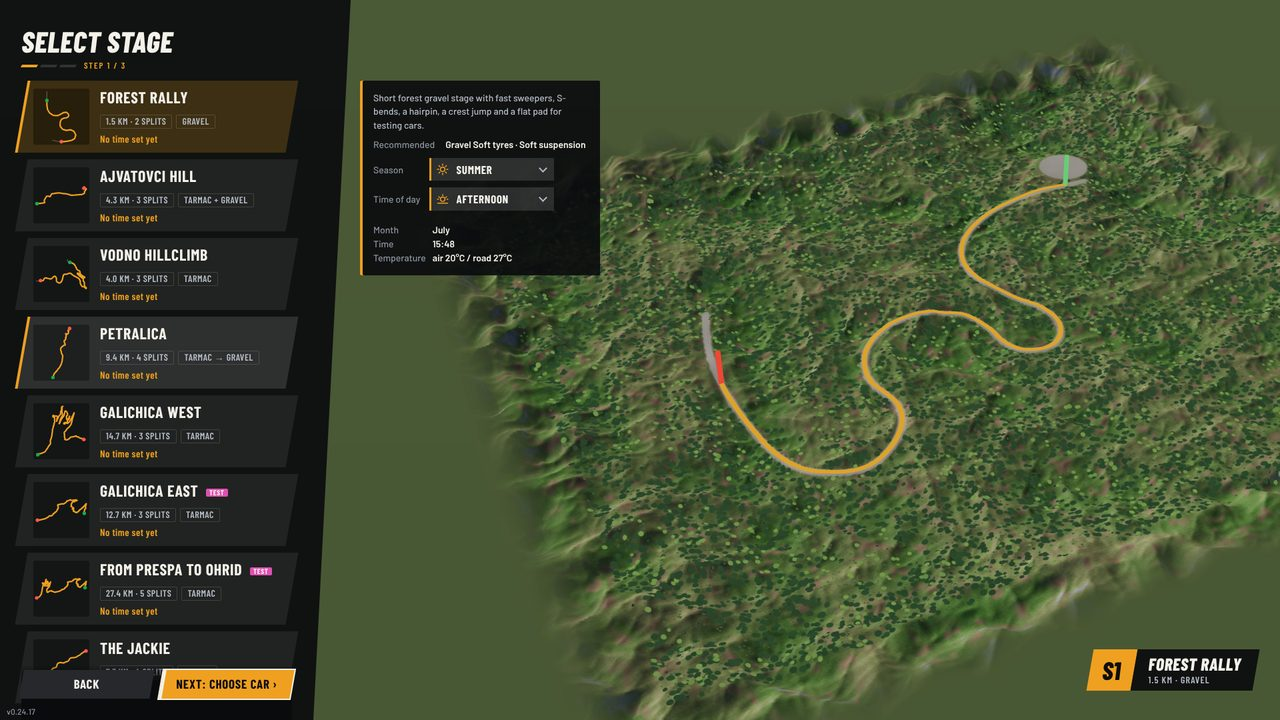
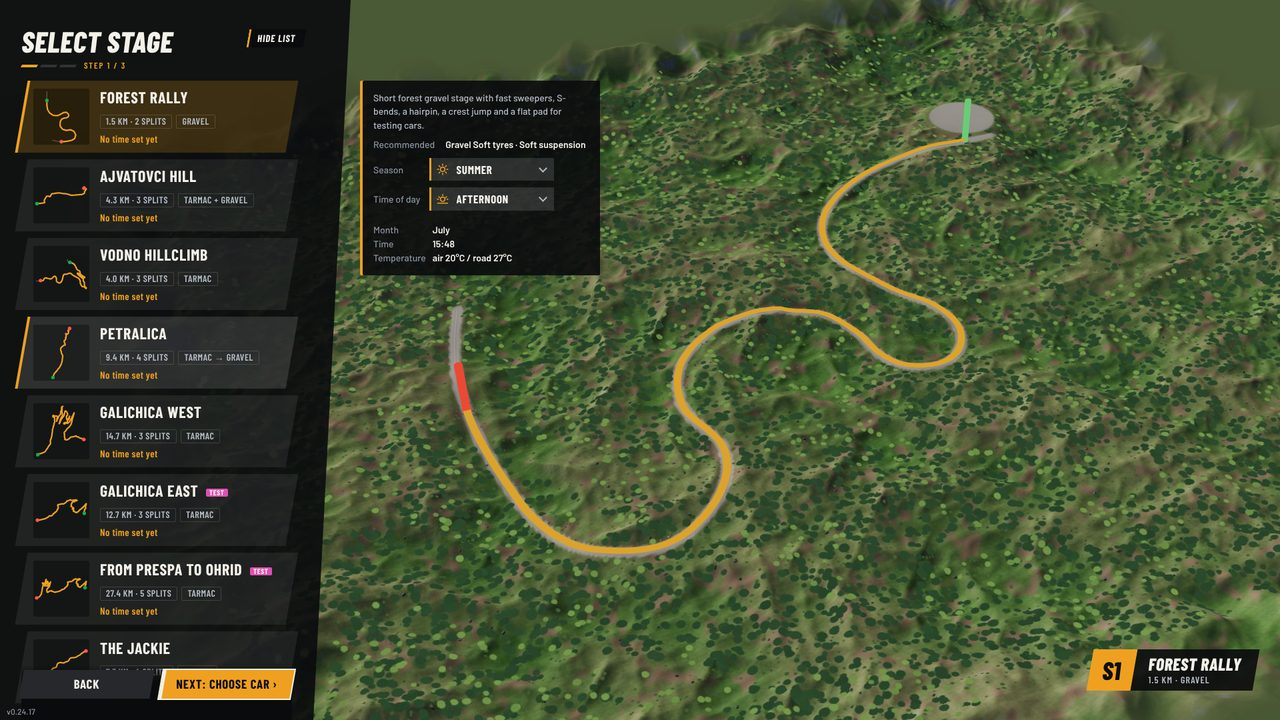
Rally menu: keep map and car full size, add Hide list
- map / car no longer move or shrink for the card
- Hide list on Select stage / Select car slides the list away
- style guide, details, guide pictures updated

diff --git a/src/games/rally/game/showroom.ts b/src/games/rally/game/showroom.ts
@@ -59,14 +59,6 @@ import {
 const CAR_SHIFT = 0.07;
 /** Orbit distance of the turntable car on every car screen: leaves room for the spec card docked on the right. */
 const CAR_DIST_SCALE = 1.05;
-/** Detail card docked beside the list: the subject moves into the room right of it, if that is at least this share of the width. */
-const DOCK_MIN_FREE = 0.25;
-/** Same for the stage view: the whole route has to fit there, so it needs more room before it leaves the middle. */
-const DOCK_MIN_FREE_MAP = 0.4;
-/** Gap between the docked card and the subject's room (px). */
-const DOCK_GAP = 16;
-/** Largest extra back-off of the turntable car so it fits in the room right of the docked card. */
-const DOCK_MAX_BACKOFF = 2.2;
 const CAR_ENV = { ...testMap.environment, fogDensity: 0.02, sunElevation: 24 };
 /** Map view: camera height angle over the stage (rad), ~36 deg. */
 const ORBIT_ELEVATION = Math.atan2(0.7, 0.95);
@@ -170,8 +162,6 @@ export class Showroom {
    * centred in the screen area right of the menu panel (`panelRight`, the stage view).
    */
   private fixedShift: number | null = CAR_SHIFT;
-  /** Eased screen shift of the car screens (`CAR_SHIFT`, or the room beside the docked card). */
-  private carShift = CAR_SHIFT;
   private env: Environment;
   /** Car screens: shallow depth of field on the turntable car (off on low quality). */
   private dof?: DepthOfField;
@@ -211,8 +201,6 @@ export class Showroom {
     private quality: QualitySettings,
     /** Right edge of the menu panel (CSS px from the canvas' left edge); 0 = no panel. */
     private panelRight: () => number = () => 0,
-    /** Right edge of the detail card docked beside the list (CSS px from the canvas' left edge); 0 = none. */
-    private cardRight: () => number = () => 0,
   ) {
     this.renderer = createRenderer(container, quality);
     this.loadCue = document.createElement('div');
@@ -513,17 +501,9 @@ export class Showroom {
     }
     const cw = this.renderer.domElement.clientWidth;
     this.loadCue.style.left = `${(0.5 + (w > h ? this.shift() : 0)) * cw}px`;
-    // Ease the car beside the docked detail card (and back), backing off so it still fits there.
-    const dock = this.dockEdge();
-    const want = dock ? dock / (2 * (cw || 1)) : CAR_SHIFT;
-    this.carShift += (want - this.carShift) * Math.min(1, dt * 8);
-    const back = Math.min(
-      DOCK_MAX_BACKOFF,
-      Math.max(1, (0.85 * (1 - 2 * CAR_SHIFT)) / (1 - 2 * this.carShift)),
-    );
     this.angle += dt * 0.18;
     // Back off on narrow windows so the car still fits beside the panel.
-    const dist = 8.2 * Math.max(1, 1.7 / (w / h)) * CAR_DIST_SCALE * back;
+    const dist = 8.2 * Math.max(1, 1.7 / (w / h)) * CAR_DIST_SCALE;
     const cam = this.camera;
     cam.position.set(
       Math.sin(this.angle) * dist,
@@ -548,25 +528,10 @@ export class Showroom {
    * the screen): none.
    */
   private shift(): number {
-    if (this.fixedShift !== null) return this.carShift;
+    if (this.fixedShift !== null) return this.fixedShift;
     const width = this.renderer.domElement.clientWidth || 1;
-    const dock = this.dockEdge();
-    if (dock) return dock / (2 * width);
     const panel = this.panelRight();
     return panel > width * 0.6 ? 0 : panel / (2 * width);
-  }
-
-  /**
-   * Right edge (plus a small gap) of the detail card docked beside the list, or 0 when there is none or too little room
-   * right of it: the subject then stays where it is and the card floats over it.
-   */
-  private dockEdge(): number {
-    const width = this.renderer.domElement.clientWidth || 1;
-    const card = this.cardRight();
-    const min = this.mapView ? DOCK_MIN_FREE_MAP : DOCK_MIN_FREE;
-    return card > 0 && width - card - DOCK_GAP >= width * min
-      ? card + DOCK_GAP
-      : 0;
   }
 
   private aim(cam: PerspectiveCamera, v: MapView, aspect: number): void {

diff --git a/src/games/rally/game/menu.ts b/src/games/rally/game/menu.ts
@@ -317,6 +317,8 @@ class MainMenu {
   private carIndex: number;
   /** Drivetrain filter on the car screen (not remembered: the menu opens on All). */
   private driveFilter: DriveFilter = 'all';
+  /** Select stage / Select car: the list is folded away, leaving the description card (`.menu-fold`). */
+  private folded = false;
   private livery: number;
   /** Setup screen choices for one map + car (anything else resets to the stage recommendation, nothing is saved). */
   private pick: {
@@ -368,18 +370,8 @@ class MainMenu {
     this.showroom = new Showroom(
       bg,
       quality,
-      () =>
-        this.panel.getBoundingClientRect().right -
-        bg.getBoundingClientRect().left,
-      // The detail card docked beside the list (not the phone layout, where it covers the subject above the buttons).
-      () => {
-        const card = this.root.querySelector<HTMLElement>(
-          '.menu-side-card, .menu-times-card',
-        );
-        return card && window.innerWidth >= SIDE_CARD_MIN_WIDTH
-          ? card.getBoundingClientRect().right - bg.getBoundingClientRect().left
-          : 0;
-      },
+      // Layout width (not the bounding box): the folded panel slides away without moving the subject.
+      () => this.panel.offsetLeft + this.panel.offsetWidth,
     );
     this.showroom.setCar(this.car.id, this.livery, this.badge);
     window.addEventListener('keydown', this.onKey);
@@ -499,9 +491,13 @@ class MainMenu {
     this.panel.replaceChildren();
     this.root
       .querySelectorAll(
-        '.menu-times-card, .menu-side-card, .menu-plate, .setup-part',
+        '.menu-times-card, .menu-side-card, .menu-plate, .setup-part, .menu-fold',
       )
       .forEach((el) => el.remove());
+    // The list folds away on the two screens with a description card (wide screens).
+    const foldable = screen === 'map' || screen === 'car';
+    this.root.classList.toggle('folded', foldable && this.folded);
+    if (foldable) this.root.append(this.foldButton());
     if (screen === 'welcome') this.welcome();
     // The stage plate (S number, name, length, surface) once a stage is being picked (not on the welcome screen).
     if (screen === 'map' || screen === 'car' || screen === 'setup')
@@ -895,6 +891,29 @@ class MainMenu {
     const reserve = window.innerHeight < SHORT_SCREEN_HEIGHT ? 24 : 120;
     card.style.maxHeight = `calc(100% - ${top + reserve}px)`;
     return true;
+  }
+
+  /** Button that folds the list away (and back) on Select stage / Select car, so the description card and the view stand alone. */
+  private foldButton(): HTMLElement {
+    const b = document.createElement('button');
+    b.className = 'menu-fold';
+    const sync = () => {
+      b.textContent = this.folded ? 'Show list' : 'Hide list';
+      b.setAttribute('aria-expanded', String(!this.folded));
+    };
+    sync();
+    b.addEventListener('click', () => {
+      this.folded = !this.folded;
+      this.root.classList.toggle('folded', this.folded);
+      sync();
+      // Keep the keyboard / pad on the list: the folded one is out of reach, so focus the toggle itself.
+      if (this.folded) b.focus({ preventScroll: true });
+      else
+        this.panel
+          .querySelector<HTMLElement>('[data-primary]')
+          ?.focus({ preventScroll: true });
+    });
+    return b;
   }
 
   /** Top of `el` inside the menu as if the panel were not scrolled (it keeps its scroll while the screen is rebuilt). */

diff --git a/src/games/rally/game/menu.css b/src/games/rally/game/menu.css
@@ -967,6 +967,75 @@ html.touch .menu-btn.big kbd {
     max-height: 40%;
   }
 }
+/* Hide list: on Select stage / Select car the list slides away so the description card and the view stand alone. */
+.menu-slab,
+.menu-panel {
+  transition: transform 0.25s ease;
+}
+.menu-side-card {
+  transition: left 0.25s ease;
+}
+.menu-root.folded .menu-slab,
+.menu-root.folded .menu-panel {
+  transform: translateX(-102%);
+  visibility: hidden;
+  transition:
+    transform 0.25s ease,
+    visibility 0s 0.25s;
+}
+.menu-root.folded .menu-side-card {
+  left: 28px;
+}
+.menu-fold {
+  position: absolute;
+  z-index: 42;
+  top: 44px;
+  left: 372px;
+  padding: 6px 14px;
+  border: 0;
+  border-radius: var(--ui-radius);
+  background: transparent;
+  color: var(--ui-text);
+  font: italic 700 15px/1 var(--ui-font-display);
+  letter-spacing: 0.06em;
+  text-transform: uppercase;
+  cursor: pointer;
+  transition: left 0.25s ease;
+}
+.menu-fold::before {
+  content: '';
+  position: absolute;
+  inset: 0;
+  z-index: -1;
+  background: var(--ui-glass);
+  box-shadow: inset 3px 0 0 var(--ui-accent);
+  transform: skewX(var(--ui-slant));
+}
+.menu-fold:hover::before {
+  background: var(--ui-raised-solid);
+}
+.menu-fold:focus-visible {
+  outline: 2px solid var(--ui-accent);
+  outline-offset: 2px;
+}
+.menu-root.folded .menu-fold {
+  left: 28px;
+  top: 28px;
+}
+@media (max-width: 799px) {
+  /* Phones: the list stays, the card sits over the view above the buttons. */
+  .menu-fold {
+    display: none;
+  }
+  .menu-root.folded .menu-slab,
+  .menu-root.folded .menu-panel {
+    transform: none;
+    visibility: visible;
+  }
+  .menu-root.folded .menu-side-card {
+    left: 16px;
+  }
+}
 /* Select stage: Season and Time of day dropdowns left, month / time / temperature right (wraps below on narrow cards). */
 .menu-when {
   display: flex;

diff --git a/src/games/rally/DETAILS.md b/src/games/rally/DETAILS.md
@@ -560,7 +560,7 @@ run 2-3x, so compare old / new **in the same page, interleaved** over several ro
   sits unlabelled at 0%. The car's GLB starts downloading before the map data (`preloadCarModel`).
 - Car select: a "Loading model" spinner (`Showroom.loadCue`) shows while a car's GLB downloads (the car stays hidden until then).
 - Car select: All / AWD / RWD / FWD filter row on top (`driveGroup` from the car's `drivetrain.frontSplit`, not remembered); up from the first car or the pad focuses it, left / right switch.
-- Car select (screens >= 800 px wide): the description / stats / livery sit in a card docked beside the list (`.menu-side-card`, `MainMenu.sideCard`, shared with Select stage; Stage times uses the same placement). The showroom car (`CAR_SHIFT`, `CAR_DIST_SCALE`) eases into the room right of the card and backs off to fit (`Showroom.dockEdge`, `DOCK_MIN_FREE`, `DOCK_MAX_BACKOFF`); with too little room (windows under about 1100 px wide) it keeps its shared place and runs behind the card. The stage view does the same with `DOCK_MIN_FREE_MAP`. Narrower screens (< 800 px) lay the same card over the map above the buttons.
+- Car select (screens >= 800 px wide): the description / stats / livery sit in a card docked beside the list (`.menu-side-card`, `MainMenu.sideCard`, shared with Select stage; Stage times uses the same placement). The showroom car keeps its shared place and size (`CAR_SHIFT`, `CAR_DIST_SCALE`) and may run behind the card; the **Hide list** button (`MainMenu.foldButton`, class `folded` on the menu root, shared with Select stage) slides the list away and leaves the card at the left edge, the view does not move (`panelRight` uses the panel's layout width). Narrower screens (< 800 px) lay the same card over the map above the buttons.
 - Select stage: the stage's description (`StageDef.description`: what the drive is like for the player, no data sources or build details), recommended set-up and a **Time of day** dropdown sit in the same card (phones: under the selected stage), with a **Season** dropdown (spring / summer / autumn, above the time) and the **Month** it is driven in in front. Left / right (or the pad) step the time; the list cards keep the route, tags and best time.
 - Time of day (`game/time-of-day.ts`, the one config): early morning 07:00, mid day 12:00, afternoon 15:30, evening 17:30, night 01:00 (dropdown order) - each is a `?tod=<hours>` hour, so any stage of a map with `environment.timeOfDay` takes any of them. A stage's own default hour stays exact on its nearest slot (Jackie opens on "Early morning · 08:00") and a stage can move a slot (`StageDef.slotHours`: Vodno's early morning is 08:00); a pick applies to every stage until changed and is not remembered; the menu mirrors it into the URL (`tod=`), a stage without `timeOfDay` shows no dropdown. Under it the card shows the clock time and the air / road temperature at that hour (`StageDef.temps`, the numbers the tyres run with, see PHYSICS.md). Times are saved per stage, not per time of day.
 - Season (`season.ts`): spring / summer / autumn, the one the stage opens in (`StageDef.season`, else the map's `environment.season`, default summer; `stageSeason`) or `?season=`; the stage screen's pick is mirrored into the URL (`season=`, none = the stage's own) and shown on every stage including the test map. It sets the tree leaf colours (`trees/seasons.ts`), the ground (`environment.groundTints`, below) and the stage's air / road temperatures (`StageDef.temps`, "Temperatures" below). The stage card lists the **Month** the stage is driven in that season (`environment.months`, default April / July / October: e.g. Ajvatovci spring April, Jackie spring May).

diff --git a/src/games/rally/STYLEGUIDE.md b/src/games/rally/STYLEGUIDE.md
@@ -14,7 +14,8 @@ and `hud.css` use `var(--ui-*)` only, so a change of look starts there.
 
 - **The 3D view is the hero.** No card over the middle of the screen on the stage, car and setup screens: the spec card sits
   right beside the menu list (left aligned, never far across the screen) and is narrow, the setup part window docks to the
-  right edge, the menu slab stays on the left. The map or car is the background and moves into the room right of the card.
+  right edge, the menu slab stays on the left. The map or car keeps its full size and place; the card may cover a corner of
+  it, so Select stage and Select car have a **Hide list** button that slides the list away and leaves the card.
 - **One primary action per screen**, a solid amber button. Everything else is a raised glass row.
 - **Calm menus, loud moments.** Menus stay flat and dark; the energy goes into the start, the splits and the results.
 - **Text sits on a plate.** Every HUD text group has a dark glass plate, never bare text over the sky.
@@ -66,10 +67,12 @@ ratings from the `--ui-rate-*` set (its orange is not the accent). "Recommended"
 - **Segmented control** (`.menu-seg`): slanted chips, the active one amber.
 - **Step pips**: three slanted bars (Stage, Car, Go) under the screen title.
 - **Spec card** (`.menu-side-card`, `.menu-times-card`): the glass detail card of Select stage, Select car and Stage times,
-  docked at the slab's edge with the amber left bar. Select car, Select stage and Stage times share one placement, so a new
-  menu screen with a detail card reuses the class. On screens at least 800 px wide the map or car is centred in the room
-  right of the card when that room is wide enough (about 25% of the width for the car, 40% for a map); on narrower
-  windows it stays behind the card. Phones lay the card over the view above the buttons.
+  docked at the slab's edge with the amber left bar. The three screens share one placement, so a new menu screen with a
+  detail card reuses the class. The map or car behind it never resizes or moves for it. Phones lay the card over the view
+  above the buttons.
+- **Hide list** (`.menu-fold`): slanted glass chip at the top of the slab on Select stage and Select car (wide screens). It
+  slides the list and slab off to the left and the card follows to the left edge; the chip stays and reads "Show list".
+  The choice is kept while moving between the two screens, arrow keys still step through the list.
 - **Stage plate** (`.menu-plate`): bottom right on the stage, car and setup screens and while loading: `S<n>` on amber (the
   stage's place on its map, so only a map with several stages goes past S1), then name, length and surface on glass.
 - **Dropdown** (`.menu-select`): native `<select>` (keyboard and phone friendly) with the picked option's amber line icon in
